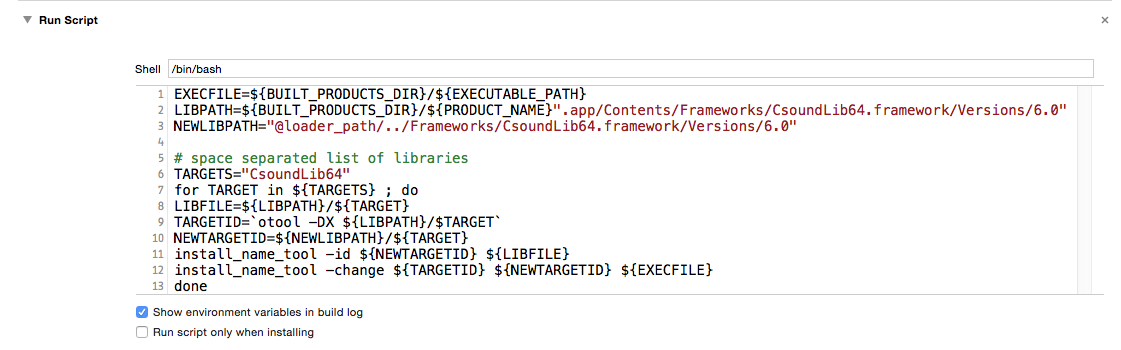
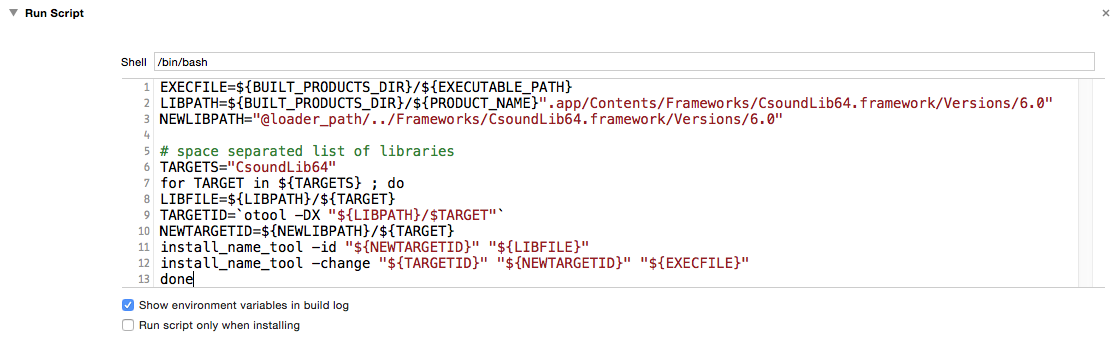
OSX Instruction Updates

diff --git a/tutorials/osx/configuration.html b/tutorials/osx/configuration.html
@@ -50,15 +50,15 @@ NEWLIBPATH="@loader_path/../Frameworks/CsoundLib64.framework/Versions/6.0"
 TARGETS="CsoundLib64"
 for TARGET in ${TARGETS} ; do
 LIBFILE=${LIBPATH}/${TARGET}
-TARGETID=`otool -DX ${LIBPATH}/$TARGET`
+TARGETID=`otool -DX "${LIBPATH}/$TARGET"`
 NEWTARGETID=${NEWLIBPATH}/${TARGET}
-install_name_tool -id ${NEWTARGETID} ${LIBFILE}
-install_name_tool -change ${TARGETID} ${NEWTARGETID} ${EXECFILE}
+install_name_tool -id "${NEWTARGETID}" "${LIBFILE}"
+install_name_tool -change "${TARGETID}" "${NEWTARGETID}" "${EXECFILE}"
 done
 {% endhighlight %}
 <p>So that your run script phase looks like:</p>
 <p>
-<img src=/images/macBuildPhases7.png style="width:100%; max-width:1121px">
+<img src=/images/macBuildPhases7.png style="width:100%; max-width:1119px">
 </p>
 <p>
 Finally, you'll need to delete any of the library folders we're not using. Since this is a Mac project, delete the iOS folder. Your Libraries folder should now look like the one below:

diff --git a/_includes/sidebars/about.html b/_includes/sidebars/about.html
@@ -7,8 +7,8 @@
 <h4>Contributor Web Sites</h4>
 <ul>
   <li><a href="http://aure.com/">aure.com</a></li>
-  <li><a href="http://adamboulanger.com/">adamboulanger.com</a></li>
   <li><a href="http://nickarner.com/">nickarner.com</a></li>
+  <li><a href="http://adamboulanger.com/">adamboulanger.com</a></li>
 </ul>
 
 <h4>Downloads</h4>
